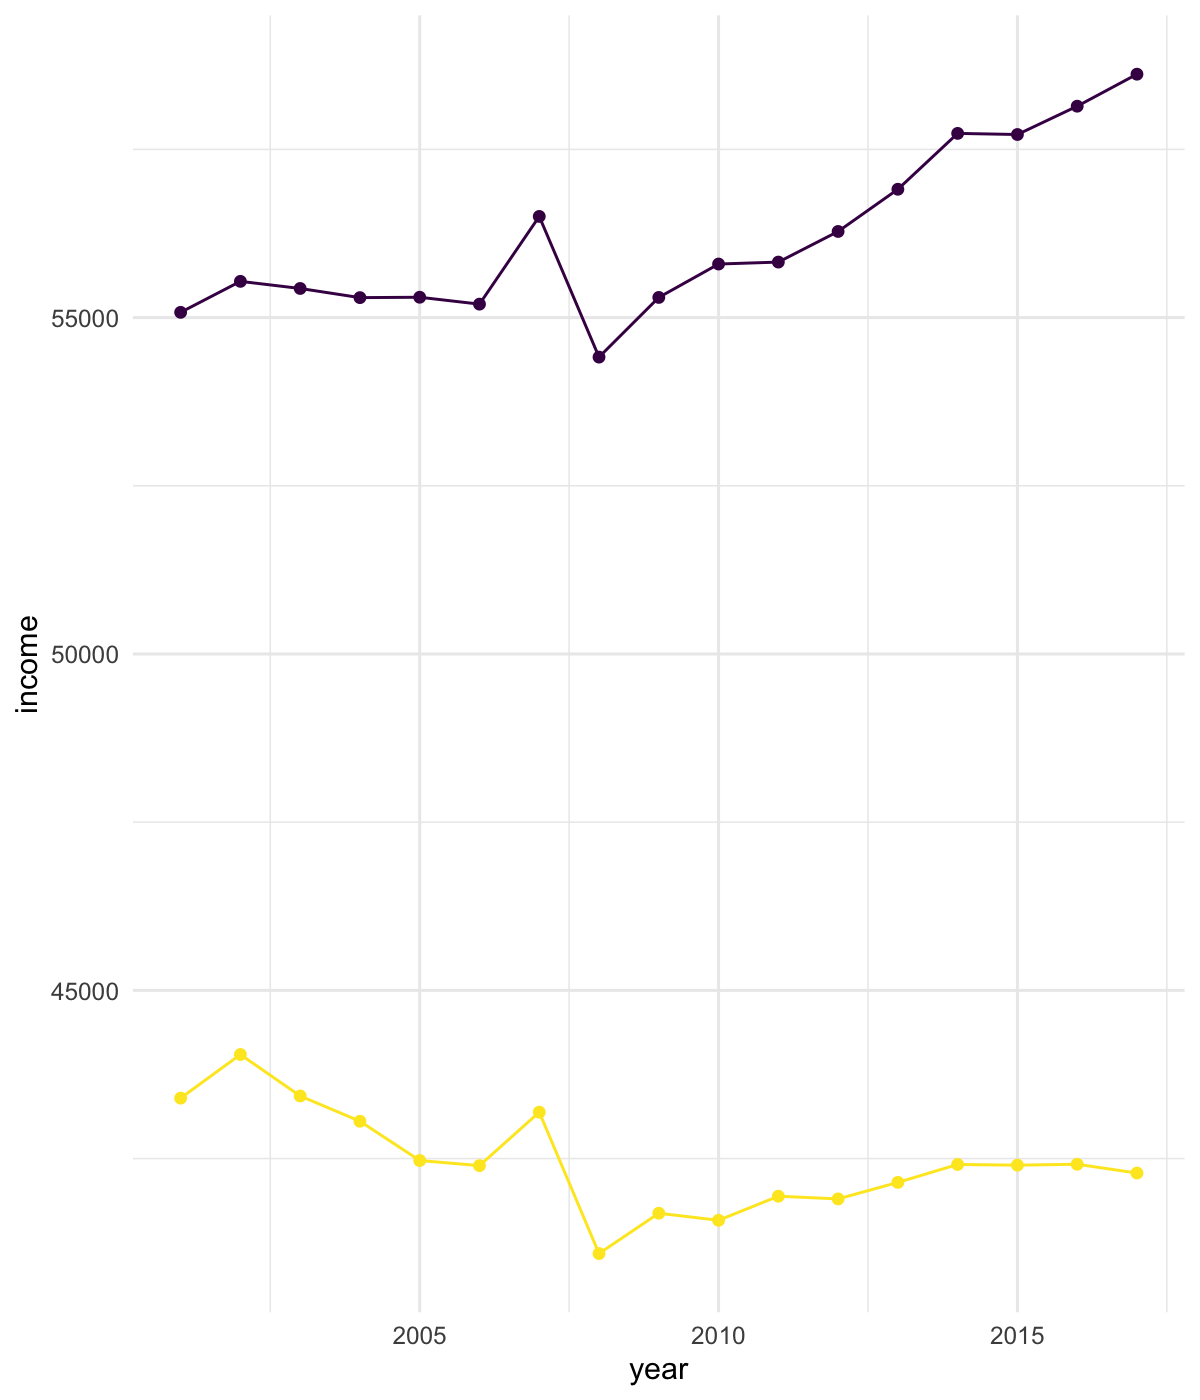
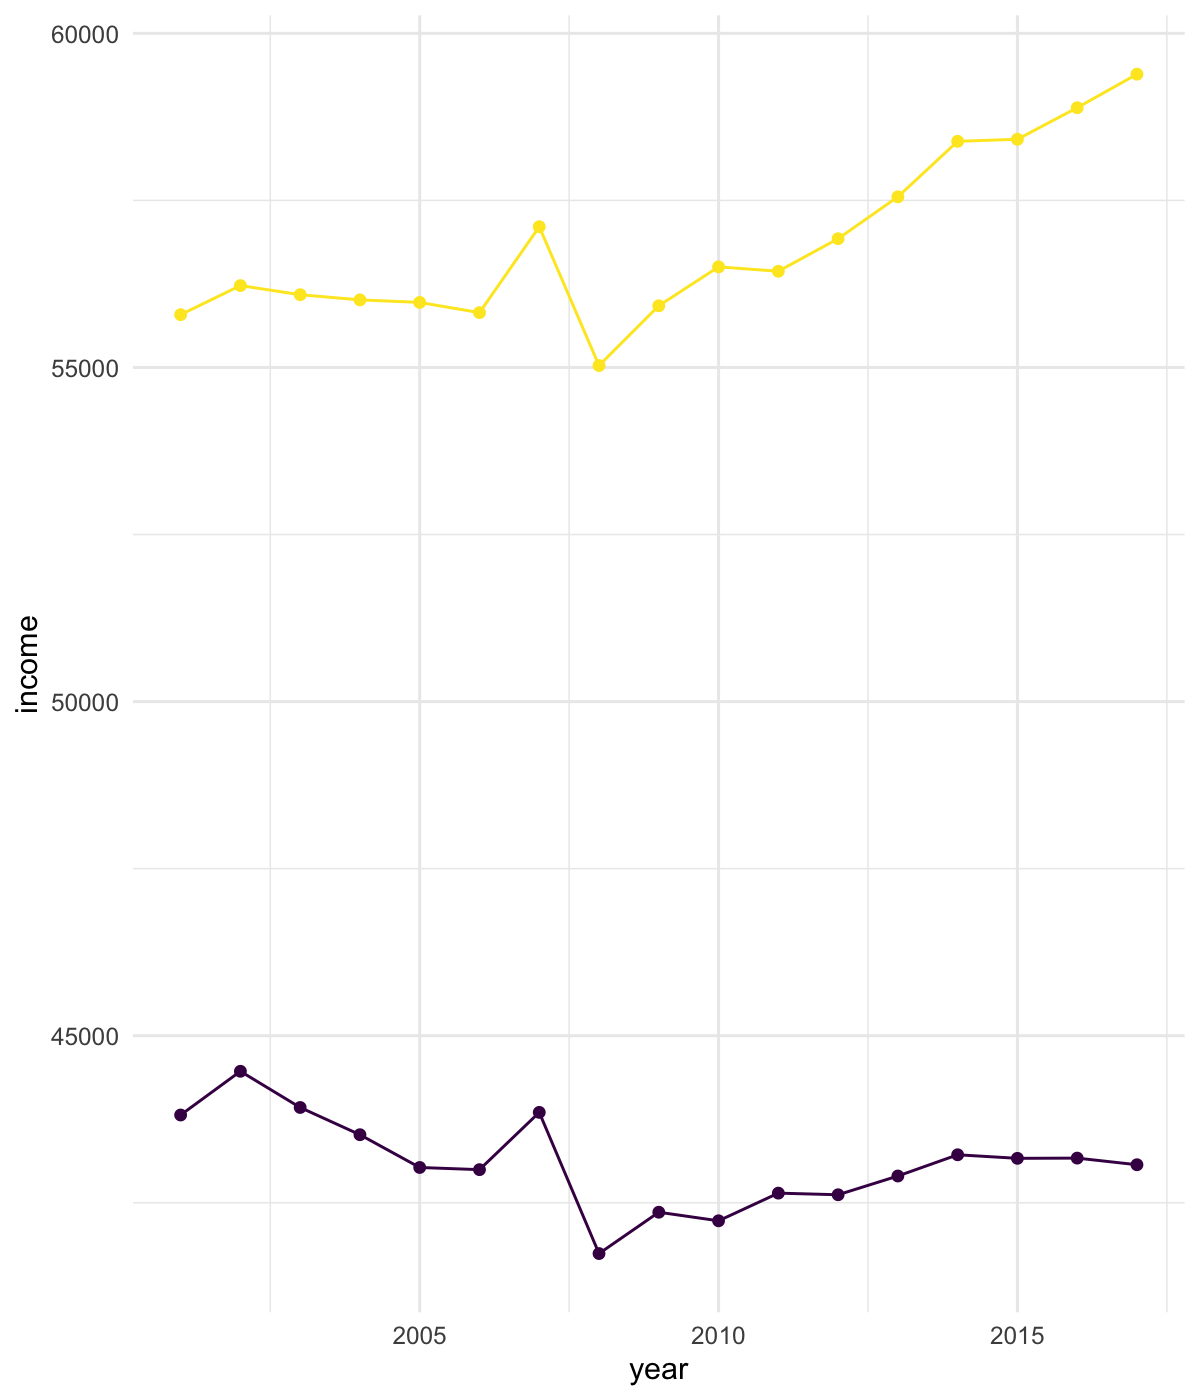
small corrections

diff --git a/_sessions/Intro2R/intro2R.html b/_sessions/Intro2R/intro2R.html
@@ -12,19 +12,15 @@
     <textarea id="source">
 class: center, middle, inverse, title-slide
 
+.title[
 # Intro 2 R
-### Visualizing and communicating data with R<br>
-<a href='https://therbootcamp.github.io'>
-<font style='font-size:1.4em'>The R Bootcamp @ GSERM</font> </a> <br>
-<a href='https://therbootcamp.github.io/DataViz_2022GSERM/'>
-<i class='fas fa-clock' style='font-size:1.4em;'></i> </a> 
-<a href='https://therbootcamp.github.io'>
-<i class='fas fa-home' style='font-size:1.4em;' ></i> </a> 
-<a href='therbootcamp@gmail.com'>
-<i class='fas fa-envelope' style='font-size: 1.4em;'></i> </a> 
-<a href='https://www.linkedin.com/company/27090302'>
-<i class='fab fa-linkedin' style='font-size: 1.4em;'></i> </a>
+]
+.author[
+### Visualizing and communicating data with R<br> <a href='https://therbootcamp.github.io'> <font style='font-size:1.4em'>The R Bootcamp @ GSERM</font> </a> <br> <a href='https://therbootcamp.github.io/DataViz_2022GSERM/'> <i class='fas fa-clock' style='font-size:1.4em;'></i> </a>  <a href='https://therbootcamp.github.io'> <i class='fas fa-home' style='font-size:1.4em;' ></i> </a>  <a href='therbootcamp@gmail.com'> <i class='fas fa-envelope' style='font-size: 1.4em;'></i> </a>  <a href='https://www.linkedin.com/company/27090302'> <i class='fab fa-linkedin' style='font-size: 1.4em;'></i> </a>
+]
+.date[
 ### June 2022
+]
 
 ---
 
@@ -493,8 +489,8 @@ mean(x = c(score, NA), na.rm = TRUE)
   &lt;ul class="level"&gt;
     &lt;li&gt;&lt;span&gt;Everything that happens is a function call&lt;/span&gt;&lt;/li&gt;
     &lt;li&gt;&lt;span&gt;Functions have (default) arguments&lt;/span&gt;&lt;/li&gt;
-    &lt;li&gt;&lt;span&gt;Beware object/argument classes/span&gt;&lt;/li&gt;
-    &lt;li&gt;&lt;span&gt;&lt;high&gt;Functions "live" in packages&lt;/high&gt;&lt;&lt;/span&gt;&lt;/li&gt;
+    &lt;li&gt;&lt;span&gt;Beware object/argument classes&lt;/span&gt;&lt;/li&gt;
+    &lt;li&gt;&lt;span&gt;&lt;high&gt;Functions "live" in packages&lt;/high&gt;&lt;/span&gt;&lt;/li&gt;
   &lt;/ul&gt;&lt;br&gt;
 &lt;/ul&gt;
 ]
@@ -1385,23 +1381,25 @@ TIBBLE %&gt;%
 ```r
 # wide to long
 basel %&gt;% 
-  select(year, quarter, 
-         income_mean, wealth_mean) %&gt;% 
-  pivot_longer(c(income_mean, wealth_mean))
+ select(year, quarter, 
+        income_mean, wealth_mean) %&gt;% 
+ pivot_longer(cols = c(income_mean, wealth_mean),
+              names_to = 'name',
+              values_to = 'value')
 ```
 
 ```
 ## # A tibble: 714 × 4
-##    year quarter      name     value
-##   &lt;dbl&gt; &lt;chr&gt;        &lt;chr&gt;    &lt;dbl&gt;
-## 1  2001 Altstadt Gr… income… 8.78e4
-## 2  2001 Altstadt Gr… wealth… 1.01e6
-## 3  2001 Vorstädte    income… 8.41e4
-## 4  2001 Vorstädte    wealth… 1.12e6
-## 5  2001 Am Ring      income… 6.26e4
-## 6  2001 Am Ring      wealth… 3.01e5
-## 7  2001 Breite       income… 5.20e4
-## 8  2001 Breite       wealth… 1.05e5
+##    year quarter        name   value
+##   &lt;dbl&gt; &lt;chr&gt;          &lt;chr&gt;  &lt;dbl&gt;
+## 1  2001 Altstadt Gros… inco… 8.78e4
+## 2  2001 Altstadt Gros… weal… 1.01e6
+## 3  2001 Vorstädte      inco… 8.41e4
+## 4  2001 Vorstädte      weal… 1.12e6
+## 5  2001 Am Ring        inco… 6.26e4
+## 6  2001 Am Ring        weal… 3.01e5
+## 7  2001 Breite         inco… 5.20e4
+## 8  2001 Breite         weal… 1.05e5
 ## # … with 706 more rows
 ```
 ]
@@ -1462,7 +1460,7 @@ basel %&gt;%
   &lt;img src="image/editor_edit.png"&gt;
 &lt;br&gt;&lt;br&gt;&lt;br&gt;
 Shortcut für &lt;high&gt;schicke Code zur Console&lt;/high&gt;:&lt;br&gt;&lt;br2&gt;&lt;font size = 6&gt;&amp;#8984;/ctrl + &amp;#9166;&lt;/font&gt;&lt;br&gt;&lt;br2&gt;&lt;br2&gt;
-Shortcut für &lt;high&gt;führe Chunk wiederholt aus&lt;/high&gt;:&lt;br&gt;&lt;br2&gt;&lt;font size = 6&gt;  &amp;#8984;/ctrl + &amp;#9095; + p&lt;/font&gt;
+Shortcut für &lt;high&gt;führe Chunk wiederholt aus&lt;/high&gt;:&lt;br&gt;&lt;br2&gt;&lt;font size = 6&gt;  &amp;#8984;/ctrl + &amp;#8997; + p&lt;/font&gt;
 &lt;/p&gt;
 
 ]
@@ -1572,6 +1570,19 @@ if (window.HTMLWidgets) slideshow.on('afterShowSlide', function (slide) {
     deleted = true;
   });
 })();
+// add `data-at-shortcutkeys` attribute to <body> to resolve conflicts with JAWS
+// screen reader (see PR #262)
+(function(d) {
+  let res = {};
+  d.querySelectorAll('.remark-help-content table tr').forEach(tr => {
+    const t = tr.querySelector('td:nth-child(2)').innerText;
+    tr.querySelectorAll('td:first-child .key').forEach(key => {
+      const k = key.innerText;
+      if (/^[a-z]$/.test(k)) res[k] = t;  // must be a single letter (key)
+    });
+  });
+  d.body.setAttribute('data-at-shortcutkeys', JSON.stringify(res));
+})(document);
 (function() {
   "use strict"
   // Replace <script> tags in slides area to make them executable

diff --git a/_sessions/styling/styling.html b/_sessions/styling/styling.html
@@ -12,19 +12,15 @@
     <textarea id="source">
 class: center, middle, inverse, title-slide
 
+.title[
 # Styling
-### Visualizing and communicating data with R<br>
-<a href='https://therbootcamp.github.io'>
-<font style='font-size:1.4em'>The R Bootcamp @ GSERM</font> </a> <br>
-<a href='https://therbootcamp.github.io/DataViz_2022GSERM/'>
-<i class='fas fa-clock' style='font-size:1.4em;'></i> </a> 
-<a href='https://therbootcamp.github.io'>
-<i class='fas fa-home' style='font-size:1.4em;' ></i> </a> 
-<a href='therbootcamp@gmail.com'>
-<i class='fas fa-envelope' style='font-size: 1.4em;'></i> </a> 
-<a href='https://www.linkedin.com/company/27090302'>
-<i class='fab fa-linkedin' style='font-size: 1.4em;'></i> </a>
+]
+.author[
+### Visualizing and communicating data with R<br> <a href='https://therbootcamp.github.io'> <font style='font-size:1.4em'>The R Bootcamp @ GSERM</font> </a> <br> <a href='https://therbootcamp.github.io/DataViz_2022GSERM/'> <i class='fas fa-clock' style='font-size:1.4em;'></i> </a>  <a href='https://therbootcamp.github.io'> <i class='fas fa-home' style='font-size:1.4em;' ></i> </a>  <a href='therbootcamp@gmail.com'> <i class='fas fa-envelope' style='font-size: 1.4em;'></i> </a>  <a href='https://www.linkedin.com/company/27090302'> <i class='fab fa-linkedin' style='font-size: 1.4em;'></i> </a>
+]
+.date[
 ### June 2022
+]
 
 ---
 
@@ -312,7 +308,7 @@ my_plot + theme_minimal()
 .pull-left45[
 
 &lt;ul&gt;
-  &lt;li class="m1"&gt;&lt;span&gt;With &lt;high&gt;87 arguments&lt;/high&gt; &lt;mono&gt;theme()&lt;/mono&gt; permits specification of all aesthetic details.&lt;/span&gt;&lt;/li&gt;
+  &lt;li class="m1"&gt;&lt;span&gt;With &lt;high&gt;96 arguments&lt;/high&gt; &lt;mono&gt;theme()&lt;/mono&gt; permits specification of all aesthetic details.&lt;/span&gt;&lt;/li&gt;
   &lt;li class="m2"&gt;&lt;span&gt;Makes uses of helper functions:&lt;/span&gt;&lt;/li&gt;
   &lt;ul class="level"&gt;
     &lt;li&gt;&lt;span&gt;&lt;mono&gt;element_rect()&lt;/mono&gt; | for rectangles&lt;/span&gt;&lt;/li&gt;
@@ -676,10 +672,10 @@ basel %&gt;%
   
   # group by year and quarter
   group_by(year, 
-           low = inc_2001 &lt; median(inc_2001)) %&gt;% 
+           low = inc_2001 &gt; median(inc_2001)) %&gt;% 
   summarize(income = mean(income_median)) %&gt;% 
   
-  # original code
+  # plot code
   ggplot(aes(x = year, y = income, 
              col = low)) +
   geom_line() + geom_point() +
@@ -716,7 +712,7 @@ basel %&gt;%
   
   # group by year and quarter
   group_by(year, 
-           low = inc_2001 &lt; median(inc_2001)) %&gt;% 
+           low = inc_2001 &gt; median(inc_2001)) %&gt;% 
   summarize(income = mean(income_median),
             income_sd = sd(income_median)) %&gt;% 
   
@@ -760,7 +756,7 @@ basel %&gt;%
   
   # group by year and quarter
   group_by(year, 
-           low = inc_2001 &lt; median(inc_2001)) %&gt;% 
+           low = inc_2001 &gt; median(inc_2001)) %&gt;% 
   summarize(income = mean(income_median),
             income_sd = sd(income_median)) %&gt;% 
   
@@ -889,6 +885,19 @@ if (window.HTMLWidgets) slideshow.on('afterShowSlide', function (slide) {
     deleted = true;
   });
 })();
+// add `data-at-shortcutkeys` attribute to <body> to resolve conflicts with JAWS
+// screen reader (see PR #262)
+(function(d) {
+  let res = {};
+  d.querySelectorAll('.remark-help-content table tr').forEach(tr => {
+    const t = tr.querySelector('td:nth-child(2)').innerText;
+    tr.querySelectorAll('td:first-child .key').forEach(key => {
+      const k = key.innerText;
+      if (/^[a-z]$/.test(k)) res[k] = t;  // must be a single letter (key)
+    });
+  });
+  d.body.setAttribute('data-at-shortcutkeys', JSON.stringify(res));
+})(document);
 (function() {
   "use strict"
   // Replace <script> tags in slides area to make them executable

diff --git a/_sessions/ggplot/ggplot.html b/_sessions/ggplot/ggplot.html
@@ -95,9 +95,9 @@ layout: true
     &lt;li&gt;&lt;span&gt;What do size, shapes, colors, etc. represent?&lt;/span&gt;&lt;/li&gt;
   &lt;/ul&gt;
   &lt;li class="m3"&gt;&lt;span&gt;&lt;highm&gt;geoms&lt;/highm&gt;: geometric shapes illustrating data&lt;/high&gt;&lt;/span&gt;&lt;/li&gt;
-  &lt;li class="m4"&gt;&lt;span&gt;&lt;highm&gt;labs&lt;/highm&gt;: Plot annotation&lt;/high&gt;&lt;/span&gt;&lt;/li&gt;
-  &lt;li class="m5"&gt;&lt;span&gt;&lt;highm&gt;themes&lt;/highm&gt;: Aesthetic details&lt;/high&gt;&lt;/span&gt;&lt;/li&gt;
-  &lt;li class="m6"&gt;&lt;span&gt;&lt;highm&gt;facets&lt;/highm&gt;: Stratify plot according to variable&lt;/high&gt;&lt;/span&gt;&lt;/li&gt;
+  &lt;li class="m4"&gt;&lt;span&gt;&lt;highm&gt;facets&lt;/highm&gt;: Stratify plot according to variable&lt;/high&gt;&lt;/span&gt;&lt;/li&gt;
+  &lt;li class="m5"&gt;&lt;span&gt;&lt;highm&gt;labs&lt;/highm&gt;: Plot annotation&lt;/high&gt;&lt;/span&gt;&lt;/li&gt;
+  &lt;li class="m6"&gt;&lt;span&gt;&lt;highm&gt;themes&lt;/highm&gt;: Aesthetic details&lt;/high&gt;&lt;/span&gt;&lt;/li&gt;
   &lt;li class="m7"&gt;&lt;span&gt;&lt;highm&gt;scales&lt;/highm&gt;: Scaling of dimensions&lt;/high&gt;&lt;/span&gt;&lt;/li&gt;
 &lt;/ul&gt;
 
@@ -624,9 +624,7 @@ ggplot(data = basel_avg_long,
        mapping = aes(
          x = year, 
          y = income,
-                     
          # add many dimensions
-         # (not recommended)
          col = statistic) +
   geom_point() +
   geom_line() 

diff --git a/todo_questions.md b/todo_questions.md
@@ -5,30 +5,13 @@
 tidyR abbildung statt wide-long
 https://github.com/rstudio/cheatsheets/blob/main/tidyr.pdf
 
-- Slide 30
 
-animation von 29
 
-beispiel mit names_to / values_to
-
-- Slide 33
-
-Option Key auf Mac keyboard sieht anders aus
 
 #ggplot
 
-- Slide 17
+- Slide 3
 
-ev mit message klar - aber sonst?
+facets jetzt als Punkt 4 - Reihenfolgen hinten?
 
-#styling
 
-- Slide 9
-
-könnte man mal updaten (no high prio)
-hat mittlerweile 96 arguments
-
-- Slide 18-20 
-
-super heavy on code 
-unclear where the relevant code parts are
